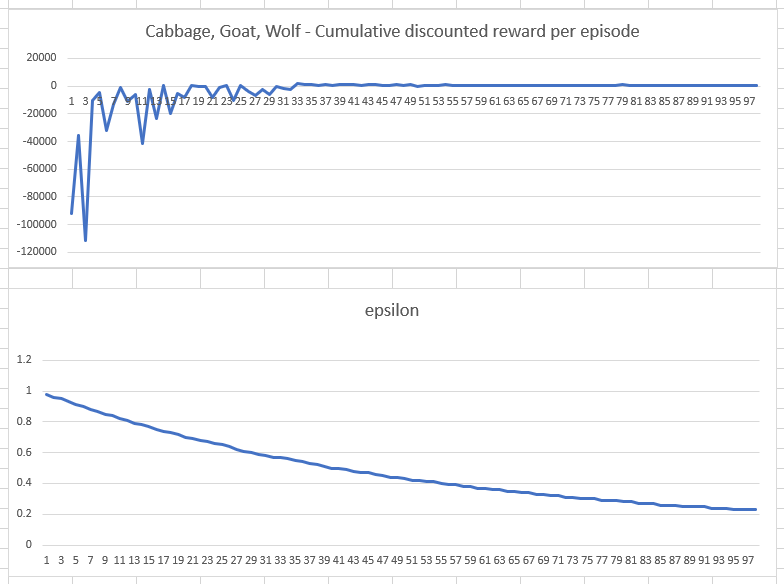
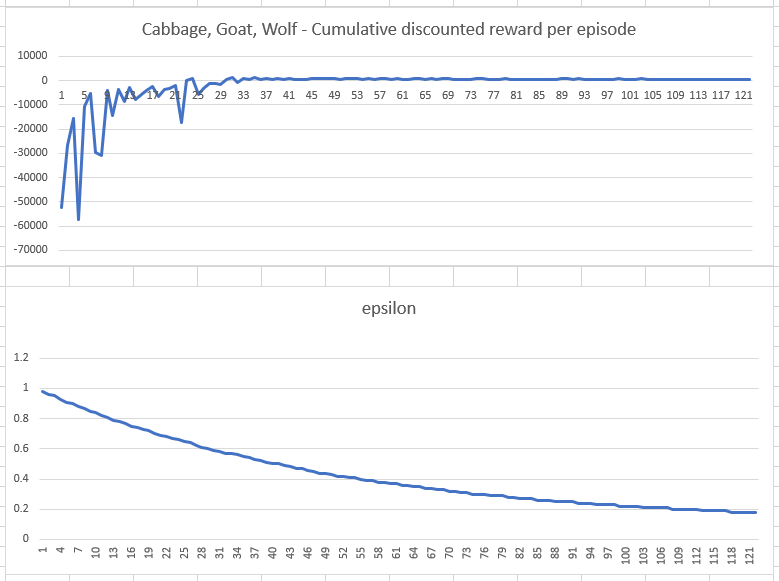
reward function purge

Changed region(s): [[0.0, 0.0, 1.0, 1.0], [0.4621, 0.5267, 0.5546, 0.5577], [0.0, 0.5886, 0.0308, 0.6506]]

diff --git a/wolf_goat_cabbage_qlearning.py b/wolf_goat_cabbage_qlearning.py
@@ -162,9 +162,6 @@ class WolfGoatCabbageQLearning:
             return -100
         if {'🐐', '🥦'} <= state[2] and '⛵' not in state[2]:
             return -100
-        if len(state[1]) > 2:
-            # do not put more than 2 obj in the boat (player and max 1 obj)
-            return -100
         return 0
 
     def train(self):
